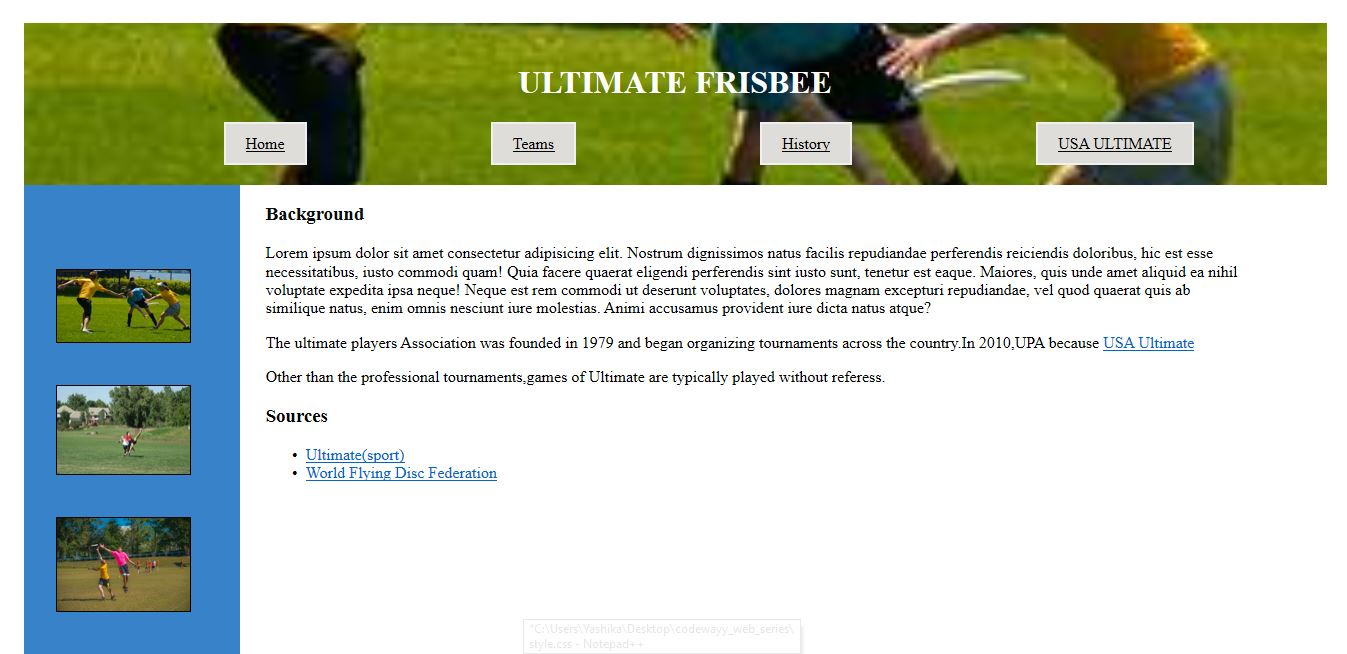
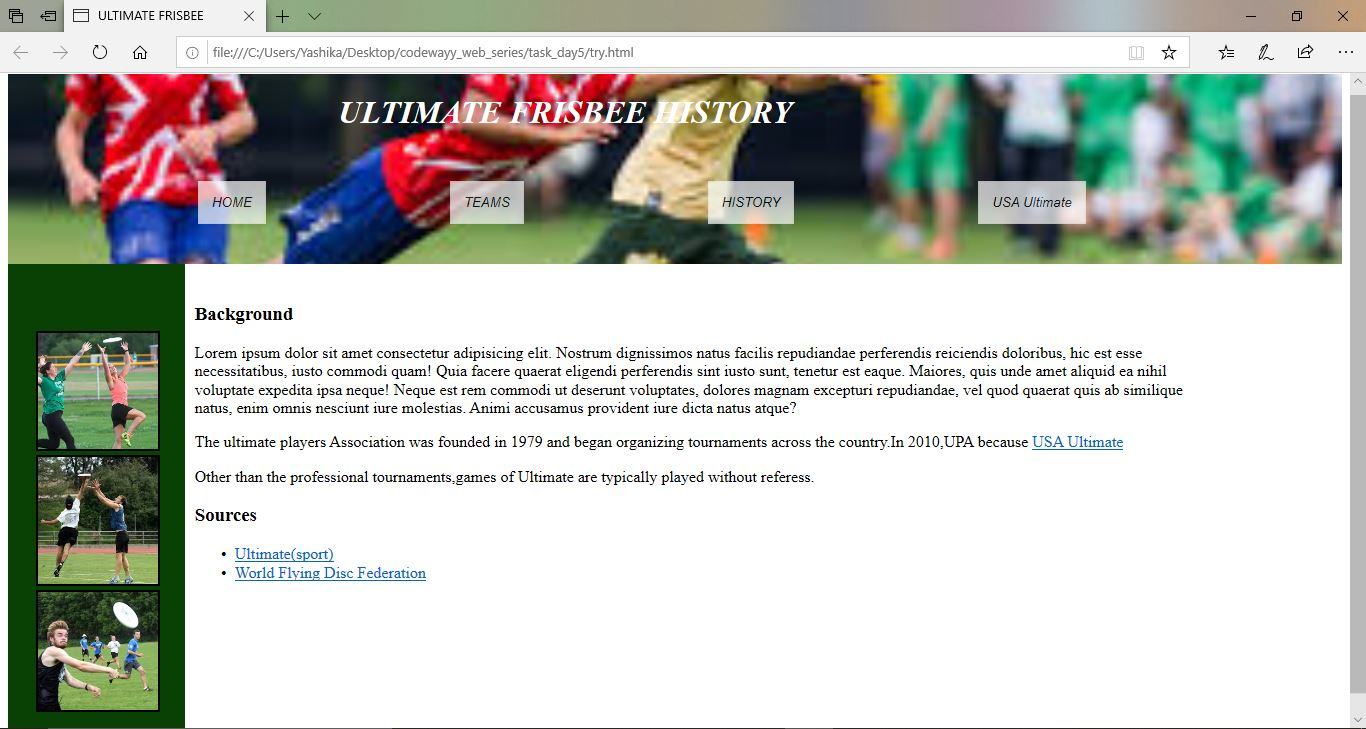
some changes in task5

diff --git a/task_day5/try.html b/task_day5/try.html
@@ -1,0 +1,55 @@
+<!DOCTYPE html>
+<html lang="en">
+<head>
+    <meta charset="utf-8">
+    <title>ULTIMATE FRISBEE </title>
+    <link href="style.css" rel="stylesheet">
+</head>
+<body>
+    <header class="navbar">
+        <h1 id="heading">ULTIMATE FRISBEE HISTORY</h1>
+        <nav>
+        <button >HOME</button>
+        <button >TEAMS</button>
+        <button >HISTORY</button>
+        <button >USA Ultimate</button>
+        </nav>
+
+    </header>
+    <aside class="left">
+        <img src="../images/frisbee1.jpg"  alt="Creative Common Ultimate Photo"><br>
+        <img src="../images/frisbee4.jpg"  alt="Creative Common Ultimate Photo"><br>
+        <img src="../images/frisbee3.jpg"  alt="Creative Common Ultimate Photo"><br>
+    </aside>
+    <section class="information">
+    <h3 id="infoheading">Background</h3>
+            <p>Lorem ipsum dolor sit amet consectetur 
+                adipisicing elit. Nostrum dignissimos 
+                natus facilis repudiandae perferendis 
+                reiciendis doloribus, hic est esse 
+                necessitatibus, iusto commodi quam! 
+                Quia facere quaerat eligendi perferendis 
+                sint iusto sunt, tenetur est eaque. 
+                Maiores, quis unde amet aliquid ea nihil 
+                voluptate expedita ipsa neque! Neque est 
+                rem commodi ut deserunt voluptates, 
+                dolores magnam excepturi repudiandae, 
+                vel quod quaerat quis ab similique natus, 
+                enim omnis nesciunt iure molestias. Animi 
+                accusamus provident iure dicta natus atque?
+            </p>
+            <p>
+                The ultimate players Association was founded in 1979 and began organizing tournaments
+                across the country.In 2010,UPA because <a href="#">USA Ultimate</a>
+            </p>
+            <p>
+                Other than the professional tournaments,games of Ultimate are typically played without referess.
+            </p>
+            <h3>Sources</h3>
+            <ul>
+                <li><a href="#">Ultimate(sport)</a></li>
+                <li><a href="#">World Flying Disc Federation</li>
+            </ul>
+        </section>
+    </body>
+</html>

diff --git a/task_day5/style.css b/task_day5/style.css
@@ -1,67 +1,49 @@
-body{
-    padding: 10px;
-    margin: 1%;
-}
+
 .navbar{
-    
-    background-image: url("https://tse3.mm.bing.net/th?id=OIP.6uhNzkZRNYe4x6i00lwJnQHaEA&pid=Api&P=0&w=290&h=158");
+    background-image: url("../images/frisbee2.jpg");
     background-position: center;
     background-repeat: no-repeat;
     background-size: 100%;
-    padding: 20px;
-    
+    padding:10px;
 }
-#navdetails{
-    color: white;
-    text-align: center;
-    
+#heading{
+    margin:10px 20px 50px;
+    padding: 0px 300px;
+    color:white;
+    font-style: oblique;
 }
-nav a{
-    color: black;
-    border: 2px solid #f0f0f0 ;
-    background-color: rgb(223, 221, 217);
+nav button{
+    font-style: oblique;
+    background-color: white;
+    opacity:0.7;
+    border:1px solid whitesmoke;
+    padding :13px 13px;
     margin-left: 180px;
-    display: inline-block;
-    justify-content: space-around;
-    padding: 10px 20px;
-    opacity: 60%;
-
+    margin-bottom: 30px;
+    
 }
-a:hover{
-    color: rgb(10, 10, 10);
-    background-color: rgb(253, 252, 250);
+button:hover{
+    opacity:1;
+    color:blue;
 }
-.left {
-	background-color: rgb(55, 130, 201);
-	width: 190px;
+.left{
+    background-color:rgb(9, 65, 4);
+    float:left;
+    width: 150px;
+    height:350px;
 	float:left;
     padding: 5% 1%;
 }
 .information{
+    margin-top: 20px;
     width: 75%;
     display: inline-block;
-    padding-left: 2%;
+    padding-left: 10px;
     
 }
-#infoheading{
-    color: rgb(10, 10, 10);
-}
-.right{
-    width: 75%;
-    display: inline-block;
-    padding-left: 2%;
-    
-}
-
-.left img{
-    width: 70%;
-    margin: 10%;
-    border: 1px solid rgb(5, 5, 5);
-
-}
-#mainhead{
-    color: rgb(3, 3, 201);
-}
-.tablerow th{
-    padding-right: 40px;
+img{
+    margin-left:15px;
+    width:120px;
+    length:120px;
+    border: 2px solid black;
 }
